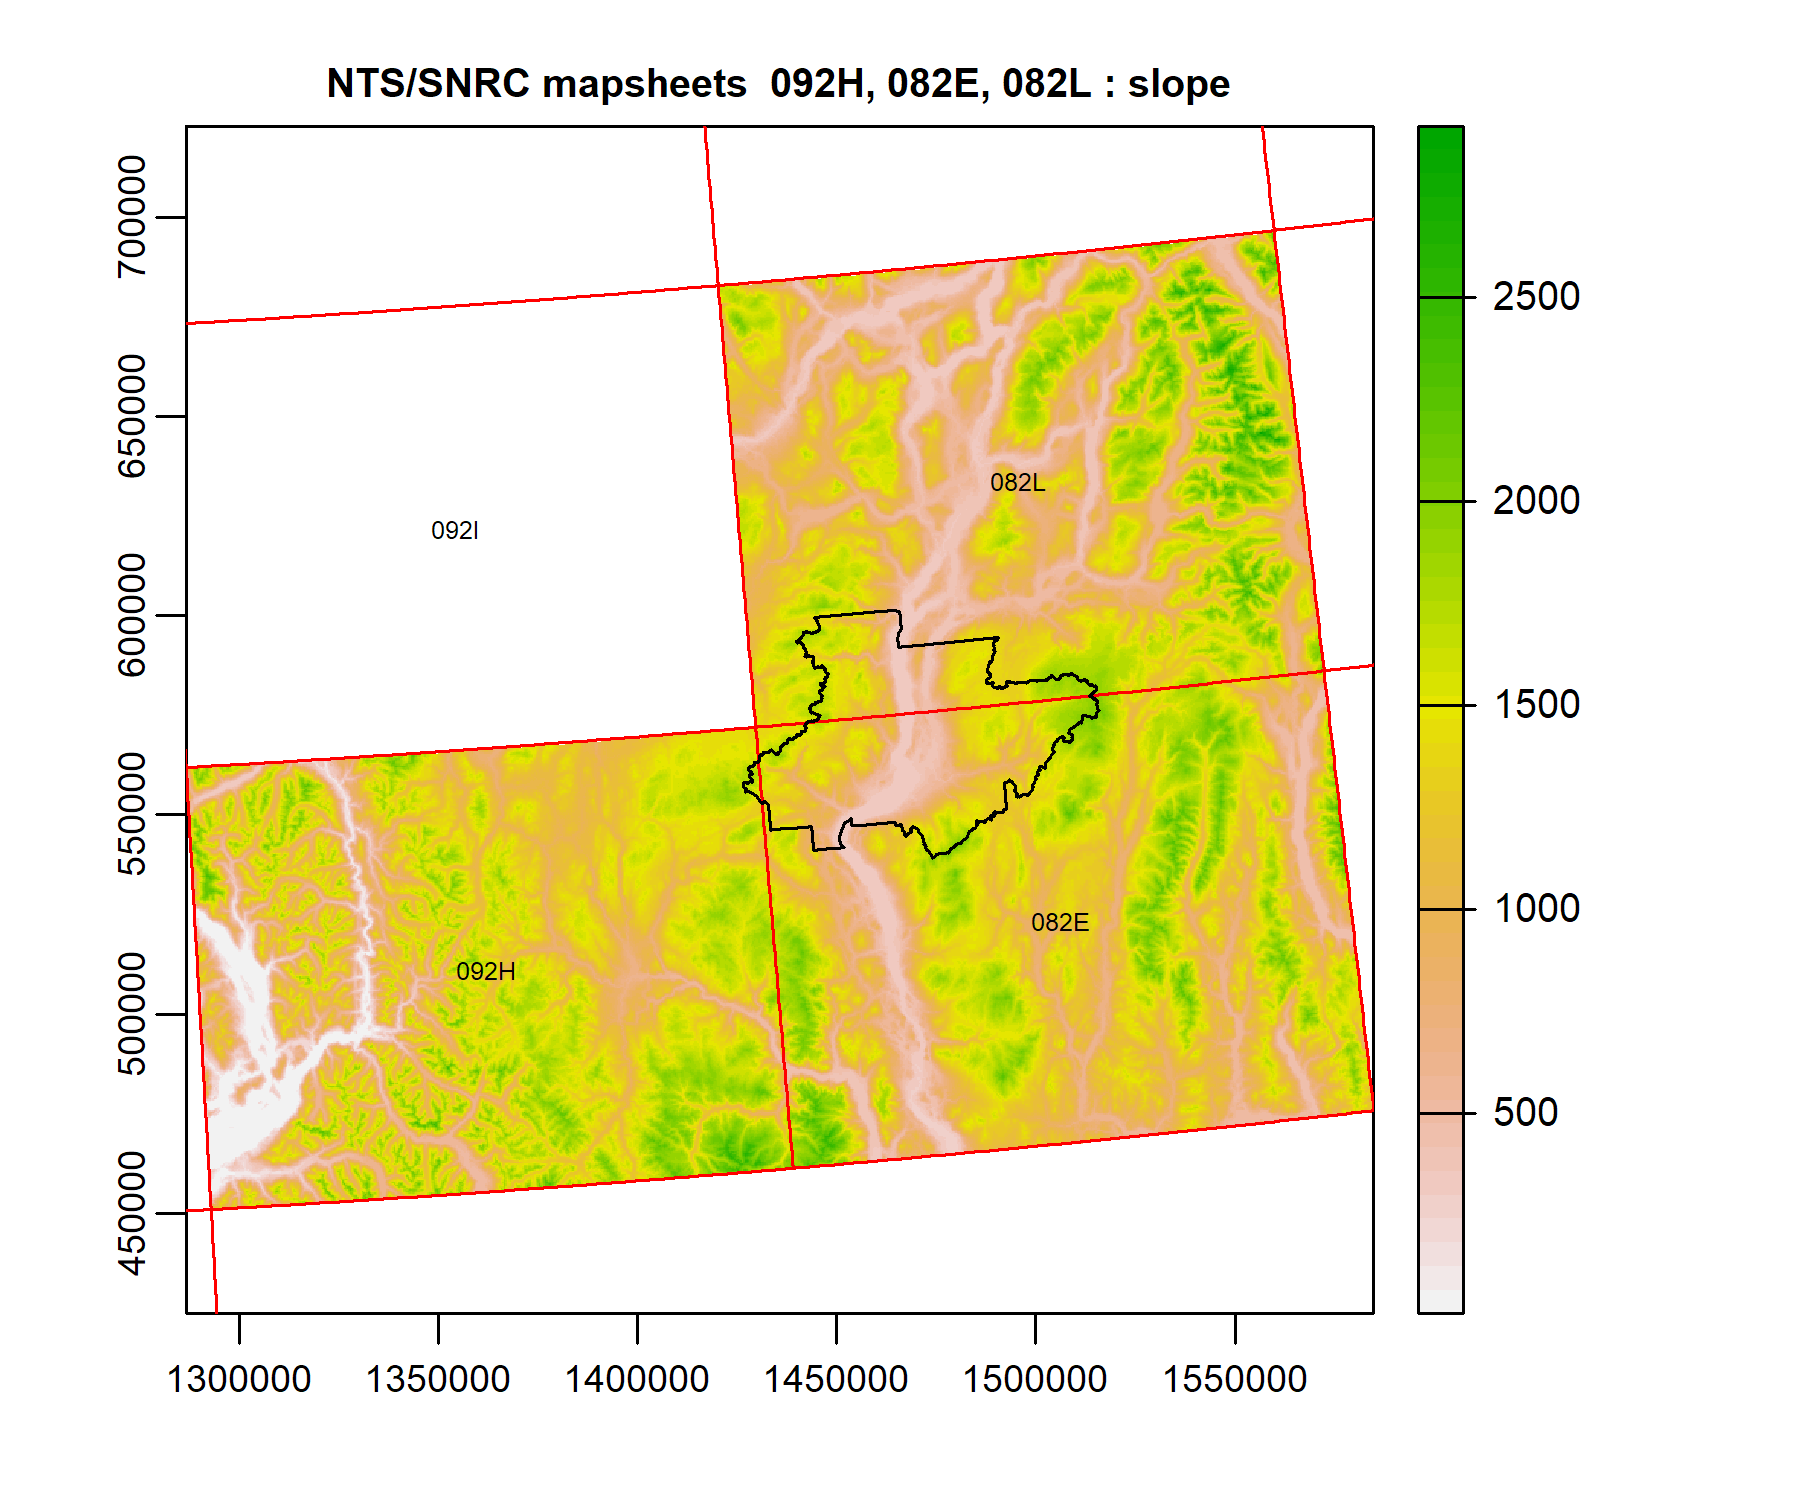
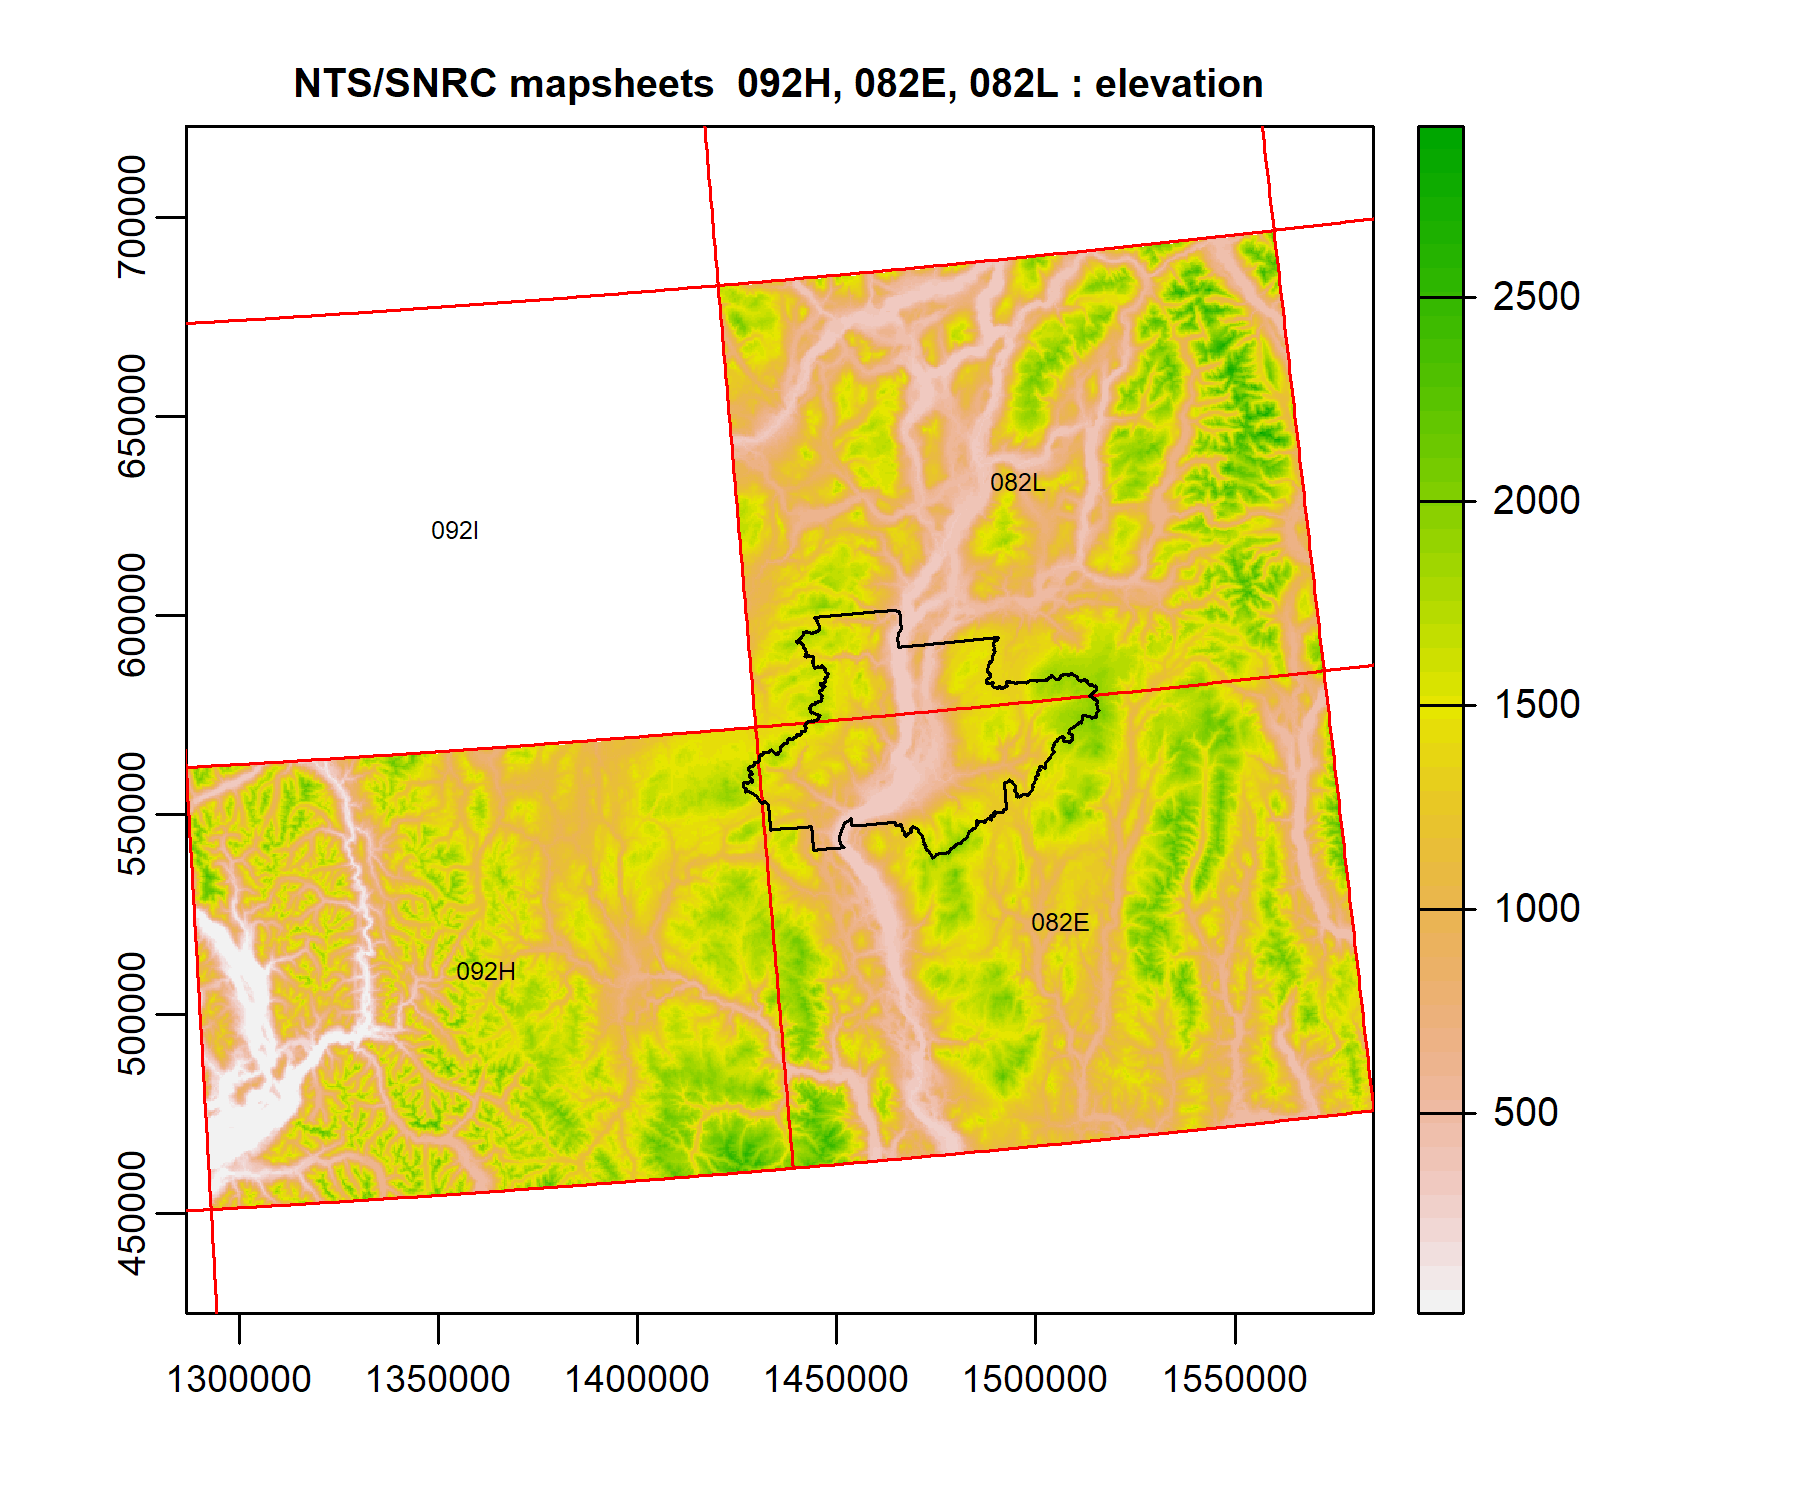
switched example slope > elevation to speed up vignette build

Changed region(s): [[0.1556, 0.0307, 0.7156, 0.092]]

diff --git a/vignette_intro.md b/vignette_intro.md
@@ -61,7 +61,7 @@ This path string is stored as an R option. View it using:
 
 ``` r
 datadir_bc()
-#> current data storage path: C:/Users/deank/AppData/Local/Temp/RtmpOYLzGn/rasterbc_data
+#> current data storage path: C:/Users/deank/AppData/Local/Temp/Rtmpm6QQJ7/rasterbc_data
 ```
 
 Depending on the geographical extent of interest and the number
@@ -148,16 +148,16 @@ fetch them using the command:
 
 ``` r
 getdata_bc(geo=example.sf, collection='dem', varname='dem')
-#> [dem]:[dem] downloading 3 block(s) to: C:/Users/deank/AppData/Local/Temp/RtmpOYLzGn/rasterbc_data/dem 
+#> [dem]:[dem] downloading 3 block(s) to: C:/Users/deank/AppData/Local/Temp/Rtmpm6QQJ7/rasterbc_data/dem 
 #>   |                                                                              |                                                                      |   0%  |                                                                              |=======================                                               |  33%
 #> downloading to: dem/blocks/dem_092H.tif 
 #>   |                                                                              |===============================================                       |  67%
 #> downloading to: dem/blocks/dem_082E.tif 
 #>   |                                                                              |======================================================================| 100%
 #> downloading to: dem/blocks/dem_082L.tif
-#> [1] "C:/Users/deank/AppData/Local/Temp/RtmpOYLzGn/rasterbc_data/dem/blocks/dem_092H.tif"
-#> [2] "C:/Users/deank/AppData/Local/Temp/RtmpOYLzGn/rasterbc_data/dem/blocks/dem_082E.tif"
-#> [3] "C:/Users/deank/AppData/Local/Temp/RtmpOYLzGn/rasterbc_data/dem/blocks/dem_082L.tif"
+#> [1] "C:/Users/deank/AppData/Local/Temp/Rtmpm6QQJ7/rasterbc_data/dem/blocks/dem_092H.tif"
+#> [2] "C:/Users/deank/AppData/Local/Temp/Rtmpm6QQJ7/rasterbc_data/dem/blocks/dem_082E.tif"
+#> [3] "C:/Users/deank/AppData/Local/Temp/Rtmpm6QQJ7/rasterbc_data/dem/blocks/dem_082L.tif"
 ```
 
 You should see progress bars for a series of three downloads, and once
@@ -169,9 +169,9 @@ will be detected, and the download skipped. *eg.* repeat the call…
 ``` r
 getdata_bc(geo=example.sf, collection='dem', varname='dem')
 #> all 3 block(s) found in local data storage. Nothing to download
-#> [1] "C:/Users/deank/AppData/Local/Temp/RtmpOYLzGn/rasterbc_data/dem/blocks/dem_092H.tif"
-#> [2] "C:/Users/deank/AppData/Local/Temp/RtmpOYLzGn/rasterbc_data/dem/blocks/dem_082E.tif"
-#> [3] "C:/Users/deank/AppData/Local/Temp/RtmpOYLzGn/rasterbc_data/dem/blocks/dem_082L.tif"
+#> [1] "C:/Users/deank/AppData/Local/Temp/Rtmpm6QQJ7/rasterbc_data/dem/blocks/dem_092H.tif"
+#> [2] "C:/Users/deank/AppData/Local/Temp/Rtmpm6QQJ7/rasterbc_data/dem/blocks/dem_082E.tif"
+#> [3] "C:/Users/deank/AppData/Local/Temp/Rtmpm6QQJ7/rasterbc_data/dem/blocks/dem_082L.tif"
 ```
 
 … and nothing happens, because the data are there already. Verify by
@@ -179,7 +179,7 @@ loading one of the files as `SpatRaster`:
 
 ``` r
 tif.path = file.path(datadir_bc(), 'dem/blocks/dem_092H.tif')
-#> current data storage path: C:/Users/deank/AppData/Local/Temp/RtmpOYLzGn/rasterbc_data
+#> current data storage path: C:/Users/deank/AppData/Local/Temp/Rtmpm6QQJ7/rasterbc_data
 example.raster = terra::rast(tif.path)
 print(example.raster)
 #> class       : SpatRaster 
@@ -246,7 +246,7 @@ example.codes = findblocks_bc(example.sf)
 example.tif = opendata_bc(example.codes, collection='dem', varname='dem')
 #> creating mosaic of 3 block(s)
 #> done
-plot(example.tif, main=paste('NTS/SNRC mapsheets ', paste(example.codes, collapse=', '), ': slope'))
+plot(example.tif, main=paste('NTS/SNRC mapsheets ', paste(example.codes, collapse=', '), ': elevation'))
 plot(st_geometry(blocks), add=TRUE, border='red')
 plot(st_geometry(example.sf), add=TRUE)
 text(st_coordinates(st_centroid(st_geometry(blocks))), labels=blocks$NTS_SNRC, cex=0.5)
